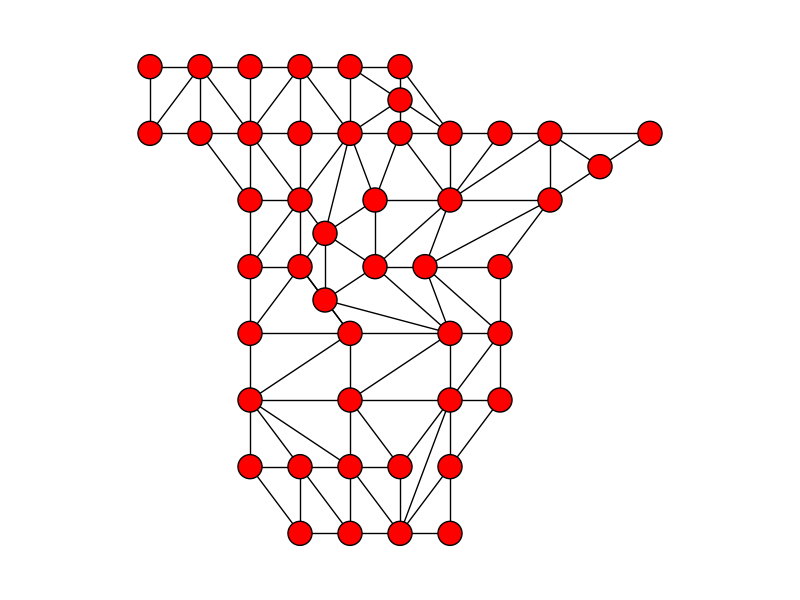
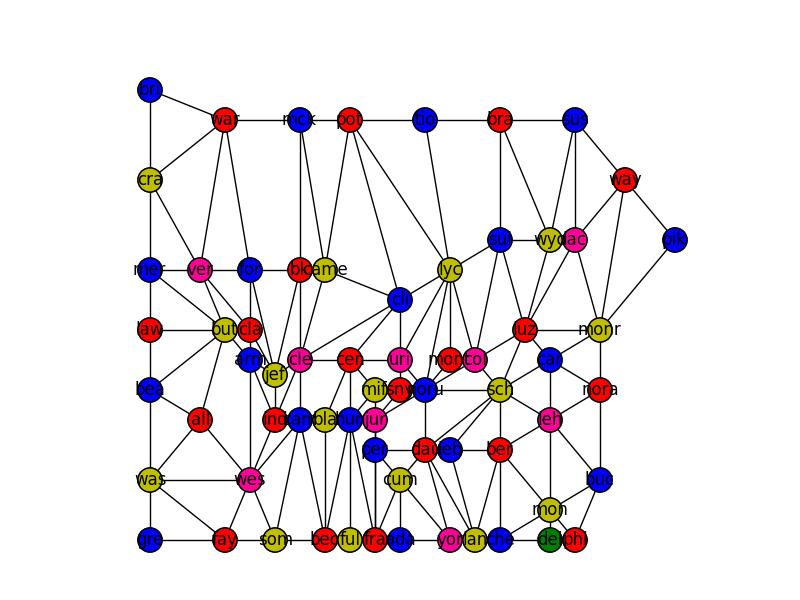
werkende versies van vs en spanje
kleurt volgens de regels, nu nog finetunen

diff --git a/vs2.py b/vs2.py
@@ -1,0 +1,127 @@
+import networkx as nx 
+import matplotlib.pyplot as plt
+from collections import defaultdict
+
+gr = nx.Graph()
+
+counties = ['bri', 'war', 'mck', 'pot', 'tio', 'bra', 'sus', 'way', 'cra', 'mer', 'ver', 'for', 'bk', 
+'came', 'cli', 'lyc', 'sul', 'wyo', 'lac', 'pik', 'law', 'but', 'cla', 'jef', 'cle', 'cen', 'uri', 
+'noru', 'mont', 'col', 'luz', 'monr', 'bea', 'all', 'arm', 'ind', 'cam', 'bla', 'hun', 'mif', 'sny', 
+'sch', 'car', 'nora', 'was', 'wes', 'jur', 'dau', 'leb', 'ber', 'leh', 'gre', 'fay', 'som', 'bec', 
+'ful', 'fra', 'per', 'cum', 'ada', 'yor', 'lan', 'che', 'mon', 'buc', 'phi', 'del']
+
+position = [(1,8.5),(2.5,8),(4,8),(5,8),(6.5,8),(8,8),(9.5,8),(10.5,7),(1,7),(1,5.5),(2,5.5),(3,5.5),(4,5.5),(4.5,5.5),
+(6,5),(7,5.5),(8,6),(9,6),(9.5,6),(11.5,6),(1,4.5),(2.5,4.5),(3,4.5),(3.5,3.75),(4,4),(5,4),(6,4),(6.5,3.5),(7,4),(7.5,4),
+(8.5,4.5),(10,4.5),(1,3.5),(2,3),(3,4),(3.5,3),(4,3),(4.5,3),(5,3),(5.5,3.5),(6,3.5),(8,3.5),(9,4),(10,3.5),(1,2),(3,2),
+(5.5,3),(6.5,2.5),(7,2.5),(8,2.5),(9,3),(1,1),(2.5,1),(3.5,1),(4.5,1),(5,1),(5.5,1),(5.5,2.5),(6,2),(6,1),(7,1),(7.5,1),
+(8,1),(9,1.5),(10,2),(9.5,1),(9,1)]
+
+nodes = ['bri', 'war', 'mck', 'pot', 'tio', 'bra', 'sus', 'way', 'cra', 'mer', 'ver', 'for', 
+'bk', 'came', 'cli', 'lyc', 'sul', 'wyo', 'lac', 'pik', 'law', 'but', 'cla', 'jef', 'cle', 
+'cen', 'uri', 'noru', 'mont', 'col', 'luz', 'monr', 'bea', 'all', 'arm', 'ind', 'cam', 'bla', 
+'hun', 'mif', 'sny', 'sch', 'car', 'nora', 'was', 'wes', 'jur', 'dau', 'leb', 'ber', 'leh', 
+'gre', 'fay', 'som', 'bec', 'ful', 'fra', 'per', 'cum', 'ada', 'yor', 'lan', 'che', 'mon', 'buc', 'phi', 'del']
+
+labels = dict(zip(counties, nodes))
+
+print len(position), len(counties)
+
+pos = dict(zip(counties, position))
+
+print pos
+
+edges = [('bri','cra'),('bri','war'),('war','cra'),('war','ver'),('war','for'),('war','mck'),('mck','bk'),('mck','came'),('mck', 'pot'),
+('pot','came'),('pot','cli'),('pot','lyc'),('pot','tio'),('tio','lyc'),('tio','bra'),('bra','sul'),('bra','wyo'),('bra','sus'),('sus','wyo'),
+('sus','lac'),('sus','way'),('way','lac'),('way','monr'),('way','pik'),('cra','mer'),('cra','ver'),('mer','ver'),('mer','but'),('mer','law'),
+('ver','but'),('ver','cla'),('ver','for'),('for','cla'),('for','jef'),('for','bk'),('bk','jef'),('bk','cle'),('bk','came'),('came','cle'),
+('came','cli'),('cli','cle'),('cli','cen'),('cli','uri'),('cli','lyc'),('lyc','uri'),('lyc','noru'),('lyc','mont'),('lyc','col'),('lyc','sul'),
+('sul','col'),('sul','luz'),('sul','wyo'),('wyo','luz'),('wyo','lac'),('lac','luz'),('lac','monr'),('pik','monr'),('law','bea'),('law','but'),
+('but','bea'),('but','all'),('but','arm'),('but','cla'),('cla','arm'),('cla','jef'),('jef','arm'),('jef','ind'),('jef','cle'),('cle','ind'),
+('cle','cam'),('cle','cen'),('cen','bla'),('cen','hun'),('cen','mif'),('cen','uri'),('uri','sny'),('uri','noru'),('noru','sny'),('noru','jur'),
+('noru','dau'),('noru','sch'),('noru','col'),('noru','mont'),('mont','col'),('col','sch'),('col', 'luz'),('luz','sch'),('luz','car'),
+('luz','monr'),('monr','car'),('monr','nora'),('bea','all'),('bea','was'),('all','was'),('all','wes'),('wes','was'),('wes','fay'),('wes','som'),
+('wes','cam'),('wes','ind'),('wes','arm'),('arm','ind'),('ind','cam'),('cam','som'),('cam','bec'),('cam','bla'),('bla','bec'),('bla','hun'),
+('hun','bec'), ('hun','ful'),('hun','fra'), ('hun','jur'),('hun','mif'), ('mif','jur'),('mif','sny'),('jur','fra'),('jur','per'),('jur','sny'),
+('per','fra'),('per','cum'),('per','dau'),('dau','cum'),('dau','yor'),('dau','lan'),('dau','leb'),('dau','sch'),('leb','lan'),('leb','ber'),
+('leb','sch'),('sch','ber'),('sch','leh'),('sch','car'),('car','leh'),('car','nora'),('nora','leh'),('nora','buc'),('was','gre'),('was','fay'),
+('fay','gre'),('fay','som'),('som','bec'),('bec','ful'),('ful','fra'),('fra','ada'),('fra','cum'),('cum','ada'),('cum','yor'),('ada','yor'),
+('yor','lan'),('lan','ber'),('lan','che'),('ber','leh'),('ber','mon'),('ber','che'),('leh','mon'),('leh','buc'),('buc','mon'),('buc','phi'),
+('che','mon'),('che','del'),('mon','phi'),('mon','del'),('del','phi')]
+
+# De zelfde edges, maar dan andere kant op (dus ook ('zam', 'leo') ipv ('leo','zam'))
+otheredges = []
+for a, b in edges: 
+	otheredges.append((b,a))
+
+# Alle edges bij elkaar gevoegd in 1 lijst
+alledges = edges + otheredges
+
+# Een dictionary met als key een provincie en als value alle provincies waar de key een grens mee deelt
+dicti = defaultdict(list)
+for v, k in alledges: 
+	dicti[v].append(k)
+
+# Lijst van (random) kleuren
+colors = ['g','b','r','y', '#660099', '#AA8899', '#DD4477', '#0000AA', '#222222']
+
+# Labelen van de nodes
+count = 0
+for node in nodes:
+	gr.add_node(node, name = nodes[count], color = colors[0])
+	count += 1
+
+# Posities van de nodes gekoppeld in een dictionary
+pos = dict(zip(nodes, position))
+
+# De lijst van kleuren die mee wordt gegeven bij het tekenen van de graaf
+nocolor = []
+
+'''
+Het kleur bepalen, dat werkt nu als volgt: 
+In het begin heeft elke node de kleur groen. Vervolgens wordt er per node gecheckt of er collisions zijn. 
+De eerste for loop itereert over alle nodes. De tweede for loop loopt door de lijst van buren en checkt of 
+een buur dezelfde kleur heeft. Zo ja, dan wordt counter groter waardoor er later een andere kleur uit de 
+kleurlijst wordt gekozen voor de node. Als er een collision is dan breakt de for loop en zorgt de while loop 
+ervoor dat alle buren weer van voor af aan gecontroleerd worden op kleur. Als er geen collisions zijn, 
+regelt de tweede if statement dat de while loop niet infinite is. 
+Uiteindelijk wordt er een kleur (afhankelijk van het aantal botsingen en dus van counter) toegekend aan 
+een node en die kleur wordt vastgelegd in een lange lijst die wordt gebruikt bij het maken van de graaf. 
+That's it that's all, folks! 
+'''
+loops = 0
+numcol = []
+while loops < 1:
+	
+	for node in nodes:
+		neighbours = dicti[node]
+		col = ['g','b','r','y', '#FF0099', '#AA9999', '#DD4477']
+		cst = 0
+		counter = 0
+		while cst == 0:
+			x = 0
+			for n in neighbours: 
+				x += 1
+				if gr.node[node]['color'] == gr.node[n]['color']:
+					counter += 1
+					break
+				if x == len(neighbours): 
+					cst = 1
+			gr.node[node]['color'] = col[counter]
+		nocolor.append(gr.node[node]['color'])
+	numcol.append(len(set(nocolor)))
+	loops+=1
+
+print dicti
+
+# Het tekenen van de graaf (met labeling en kleur)
+gr.add_edges_from(edges)
+
+nx.draw(gr,pos)
+node_labels = nx.get_node_attributes(gr,'name')
+
+nx.draw_networkx_nodes(gr, pos, nodes, node_color = nocolor)
+
+nx.draw_networkx_labels(gr, pos, labels = node_labels)
+
+plt.savefig("simple_path.png") # save as png
+plt.show() # display

diff --git a/graaf.py b/graaf.py
@@ -1,6 +1,7 @@
 import networkx as nx 
 import matplotlib.pyplot as plt
 from collections import defaultdict
+import random
 
 gr = nx.Graph()
 
@@ -73,22 +74,30 @@ Uiteindelijk wordt er een kleur (afhankelijk van het aantal botsingen en dus van
 een node en die kleur wordt vastgelegd in een lange lijst die wordt gebruikt bij het maken van de graaf. 
 That's it that's all, folks! 
 '''
-for node in nodes:
-	neighbours = dicti[node]
-	col = ['g','b','r','y', '#FF0099', '#AA0099', '#DD4477']
-	cst = 0
-	counter = 0
-	while cst == 0:
-		x = 0
-		for n in neighbours: 
-			x += 1
-			if gr.node[node]['color'] == gr.node[n]['color']:
-				counter += 1
-				break
-			if x == len(neighbours): 
-				cst = 1
-		gr.node[node]['color'] = col[counter]
-	nocolor.append(gr.node[node]['color'])
+loops = 0
+numcol = []
+while loops < 1:
+	
+	for node in nodes:
+		neighbours = dicti[node]
+		col = ['g','b','r','y', '#FF0099', '#AA9999', '#DD4477']
+		cst = 0
+		counter = 0
+		while cst == 0:
+			x = 0
+			for n in neighbours: 
+				x += 1
+				if gr.node[node]['color'] == gr.node[n]['color']:
+					counter += 1
+					break
+				if x == len(neighbours): 
+					cst = 1
+			gr.node[node]['color'] = col[counter]
+		nocolor.append(gr.node[node]['color'])
+	numcol.append(len(set(nocolor)))
+	loops+=1
+
+print dicti
 
 # Het tekenen van de graaf (met labeling en kleur)
 gr.add_edges_from(edges)
